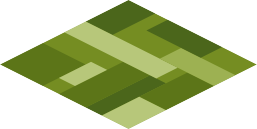
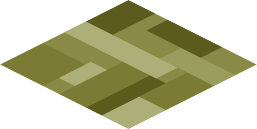
feat(town): cosy isometric town home (final)
Large isometric field with viewport culling so it stays fast; a crossroads
layout with buildings in the quadrants; olive dry-grass fields; green trees
only; one red car and pedestrians that follow the road arms; five animal
types roaming the field quadrants (lots at night); slow drifting clouds, hazy
at night; and a slow, tired, often-sleeping ピコ after dark. ピコ gains a
"tired" mood.

Changed region(s): [[0.0, 0.2481, 0.8405, 0.8682], [0.4358, 0.093, 0.716, 0.4651], [0.7782, 0.3721, 0.9961, 0.5891]]

diff --git a/src/components/town/TownMap.tsx b/src/components/town/TownMap.tsx
@@ -2,7 +2,7 @@
 
 import { useEffect, useRef, useState } from "react";
 import { useRouter } from "next/navigation";
-import { PicoAvatar } from "@/components/journey/Pico";
+import { PicoAvatar, type PicoMood } from "@/components/journey/Pico";
 
 type Business = { id: string; idea: string; current_stage: string; status: string } | null;
 
@@ -11,16 +11,19 @@ const SRC_TW = 257;
 const TW = 132;
 const TH = (TW * 129) / 257;
 const S = TW / SRC_TW;
-const N = 8; // big tiled field; edges hidden by clouds
+const N = 21;
+const MID = Math.floor(N / 2);
+const TOPF = 0.44;
 const ORIGIN_X = (N - 1) * (TW / 2);
-const ORIGIN_Y = 200;
+const ORIGIN_Y = 230;
 const DW = (N - 1 + N - 1) * (TW / 2) + TW;
 const DH = ORIGIN_Y + (N - 1 + N - 1) * (TH / 2) + TH + 60;
 
 const tilePos = (c: number, r: number) => ({ x: ORIGIN_X + (c - r) * (TW / 2), y: ORIGIN_Y + (c + r) * (TH / 2) });
 const cellCenter = (c: number, r: number) => { const p = tilePos(c, r); return { x: p.x + TW / 2, y: p.y + TH / 2 }; };
 const depth = (c: number, r: number) => (c + r) * 2;
-const isRoad = (c: number, r: number) => c === 3 || r === 3;
+// a crossroads through the centre: two roads meeting by the buildings, running out to the corners
+const isRoad = (c: number, r: number) => c === MID || r === MID;
 
 /* ---- sprites ---- */
 const SP = {
@@ -28,85 +31,131 @@ const SP = {
   market: { src: "/town/market.png", w: 261, h: 203 },
   library: { src: "/town/library.png", w: 425, h: 345 },
   shop: { src: "/town/shop.png", w: 225, h: 193 },
-  houseA: { src: "/town/house-a.png", w: 225, h: 193 },
-  houseB: { src: "/town/house-b.png", w: 253, h: 174 },
-  houseC: { src: "/town/house-c.png", w: 241, h: 185 },
-  houseD: { src: "/town/house-d.png", w: 241, h: 185 },
   tree1: { src: "/town/tree-01.png", w: 139, h: 210 },
   tree2: { src: "/town/tree-02.png", w: 133, h: 193 },
   tree3: { src: "/town/tree-03.png", w: 142, h: 209 },
   tree4: { src: "/town/tree-04.png", w: 138, h: 209 },
   fpink: { src: "/town/flowers-pink.png", w: 24, h: 13 },
+  fyellow: { src: "/town/flowers-yellow.png", w: 24, h: 13 },
 } as const;
 type SKey = keyof typeof SP;
 
 type Civic = { col: number; row: number; key: SKey; label: string; href: string; scaleMul?: number };
 const CIVIC: Civic[] = [
-  { col: 2, row: 2, key: "cottage", label: "ピコのいえ", href: "/pico" },
-  { col: 5, row: 2, key: "market", label: "アイデアいちば", href: "/explore" },
-  { col: 2, row: 5, key: "library", label: "がくしゅうかん", href: "/learn", scaleMul: 0.7 },
+  { col: MID - 1, row: MID - 1, key: "cottage", label: "ピコのいえ", href: "/pico" },
+  { col: MID + 1, row: MID - 1, key: "market", label: "アイデアいちば", href: "/explore" },
+  { col: MID - 1, row: MID + 1, key: "library", label: "がっこう", href: "/learn", scaleMul: 0.7 },
 ];
-const CIVIC_SET = new Set(CIVIC.map((b) => `${b.col},${b.row}`).concat(["5,5"]));
+const SHOP_CELL: [number, number] = [MID + 1, MID + 1];
+const CIVIC_SET = new Set(CIVIC.map((b) => `${b.col},${b.row}`).concat([`${SHOP_CELL[0]},${SHOP_CELL[1]}`]));
 
-const HOUSES: SKey[] = ["houseA", "houseB", "houseC", "houseD"];
-const TREES: SKey[] = ["tree1", "tree2", "tree3", "tree4"];
-
-// deterministic filler: houses + trees across all non-civic, non-road cells
+const TREES: SKey[] = ["tree1", "tree2", "tree3"]; // green trees only (no autumn orange)
+// sparse greenery so the fields stay open
 type Filler = { c: number; r: number; sp: SKey };
 const FILLER: Filler[] = [];
 for (let r = 0; r < N; r++) for (let c = 0; c < N; c++) {
   if (CIVIC_SET.has(`${c},${r}`) || isRoad(c, r)) continue;
   const m = (c * 3 + r * 5) % 7;
-  if (m === 0) FILLER.push({ c, r, sp: HOUSES[(c + r) % 4] });
-  else if (m === 2 || m === 5) FILLER.push({ c, r, sp: TREES[(c * 2 + r) % 4] });
-  else if (m === 4) FILLER.push({ c, r, sp: "fpink" });
+  if (m === 0 || m === 5) FILLER.push({ c, r, sp: TREES[(c * 2 + r) % 3] });
+  else if (m === 3) FILLER.push({ c, r, sp: (c + r) % 2 ? "fpink" : "fyellow" });
 }
 
-// wander/road cells
+const inWin = (c: number, r: number) => c >= 0 && c < N && r >= 0 && r < N && Math.abs(c - MID) <= 5 && Math.abs(r - MID) <= 5;
 const ROAD_CELLS: [number, number][] = [];
-for (let i = 0; i < N; i++) { ROAD_CELLS.push([3, i]); if (i !== 3) ROAD_CELLS.push([i, 3]); }
+const GRASS_CELLS: [number, number][] = [];
+for (let r = MID - 5; r <= MID + 5; r++) for (let c = MID - 5; c <= MID + 5; c++) {
+  if (!inWin(c, r)) continue;
+  if (isRoad(c, r)) ROAD_CELLS.push([c, r]);
+  else if (!CIVIC_SET.has(`${c},${r}`)) GRASS_CELLS.push([c, r]);
+}
+const PICO_CELLS = [...ROAD_CELLS, ...GRASS_CELLS];
+// the cross splits the field into 4 quadrants; an animal stays in one so it never crosses a road
+const GRASS_Q: [number, number][][] = [
+  GRASS_CELLS.filter(([c, r]) => c < MID && r < MID),
+  GRASS_CELLS.filter(([c, r]) => c > MID && r < MID),
+  GRASS_CELLS.filter(([c, r]) => c < MID && r > MID),
+  GRASS_CELLS.filter(([c, r]) => c > MID && r > MID),
+];
 
 const pick = <T,>(a: T[]) => a[Math.floor(Math.random() * a.length)];
+
+/* ---- cute critters ---- */
+function Critter({ type }: { type: string }) {
+  switch (type) {
+    case "dog":
+      return (<svg width="36" height="26" viewBox="0 0 42 30" fill="none"><path d="M4 16 q-3 -6 1 -9" stroke="#9B6B43" strokeWidth="3" fill="none" strokeLinecap="round" /><ellipse cx="18" cy="18" rx="13" ry="7.5" fill="#A9774B" /><rect x="11" y="22" width="3" height="6.5" rx="1.5" fill="#8B5E37" /><rect x="23" y="22" width="3" height="6.5" rx="1.5" fill="#8B5E37" /><circle cx="31" cy="14" r="6.5" fill="#A9774B" /><path d="M28 9 q-3 1 -2 7 q3 -1 4 -5z" fill="#8B5E37" /><circle cx="33" cy="14" r="1" fill="#3A2A1A" /><circle cx="36" cy="15.5" r="1.2" fill="#3A2A1A" /></svg>);
+    case "rabbit":
+      return (<svg width="28" height="30" viewBox="0 0 30 34" fill="none"><ellipse cx="14" cy="24" rx="9" ry="6.5" fill="#F2F2F2" /><circle cx="20" cy="17" r="5.5" fill="#F2F2F2" /><ellipse cx="18" cy="7" rx="2" ry="6" fill="#F2F2F2" /><ellipse cx="22.5" cy="7" rx="2" ry="6" fill="#F2F2F2" /><ellipse cx="18" cy="7" rx="0.9" ry="4" fill="#FFC9D6" /><ellipse cx="22.5" cy="7" rx="0.9" ry="4" fill="#FFC9D6" /><circle cx="22" cy="17" r="1" fill="#3A2A1A" /><circle cx="6" cy="22" r="2.5" fill="#fff" /></svg>);
+    case "bird":
+      return (<svg width="24" height="22" viewBox="0 0 26 24" fill="none"><ellipse cx="13" cy="13" rx="8" ry="6.5" fill="#C98A5B" /><circle cx="18" cy="8" r="4" fill="#C98A5B" /><path d="M21 7 l4 1 -4 1z" fill="#FFB347" /><circle cx="19" cy="7.5" r="0.8" fill="#3A2A1A" /><path d="M3 13 q-3 1 -4 4" stroke="#C98A5B" strokeWidth="2.5" fill="none" strokeLinecap="round" /><rect x="11" y="18" width="1.6" height="4" fill="#FFB347" /><rect x="15" y="18" width="1.6" height="4" fill="#FFB347" /></svg>);
+    case "sheep":
+      return (<svg width="34" height="26" viewBox="0 0 38 30" fill="none"><circle cx="12" cy="16" r="7" fill="#F4F4F4" /><circle cx="19" cy="13" r="8" fill="#F4F4F4" /><circle cx="25" cy="16" r="7" fill="#F4F4F4" /><circle cx="18" cy="20" r="7" fill="#F4F4F4" /><circle cx="30" cy="15" r="4.5" fill="#4A4A4A" /><circle cx="31.5" cy="14.5" r="0.9" fill="#fff" /><rect x="14" y="24" width="2" height="5" fill="#4A4A4A" /><rect x="22" y="24" width="2" height="5" fill="#4A4A4A" /></svg>);
+    default: // cat
+      return (<svg width="34" height="24" viewBox="0 0 40 28" fill="none"><path d="M5 16 q-6 -3 -5 -11" stroke="#E8A85C" strokeWidth="3" fill="none" strokeLinecap="round" /><ellipse cx="17" cy="17" rx="12" ry="7" fill="#E8A85C" /><rect x="11" y="21" width="2.6" height="6" rx="1.3" fill="#D8954A" /><rect x="21" y="21" width="2.6" height="6" rx="1.3" fill="#D8954A" /><circle cx="29" cy="12" r="6" fill="#E8A85C" /><path d="M24 6.5 l1.4 4.2 -4 -0.6z" fill="#E8A85C" /><path d="M31 6.5 l2 3.6 -3.6 0.6z" fill="#E8A85C" /><circle cx="30.5" cy="12" r="1" fill="#3A2A1A" /><circle cx="33.6" cy="13" r="0.8" fill="#FF9E9E" /></svg>);
+  }
+}
+
+const DAY_ANIMALS = ["cat", "dog", "rabbit", "bird"];
+const NIGHT_ANIMALS = ["cat", "dog", "rabbit", "bird", "sheep", "cat", "rabbit", "dog", "bird", "sheep"];
 
 export function TownMap({ business }: { business: Business }) {
   const router = useRouter();
   const wrapRef = useRef<HTMLDivElement>(null);
   const moversRef = useRef<HTMLDivElement[]>([]);
-  const [scale, setScale] = useState(0.8);
+  const restRef = useRef(false);
+  const [size, setSize] = useState({ w: 545, h: 800 });
   const [night, setNight] = useState<boolean | null>(null);
   const [tapped, setTapped] = useState<string | null>(null);
   const [picoTap, setPicoTap] = useState(false);
+  const [picoResting, setPicoResting] = useState(false);
 
   useEffect(() => { const h = new Date().getHours(); setNight(h >= 19 || h < 6); }, []);
-
   useEffect(() => {
     const el = wrapRef.current;
     if (!el) return;
-    // cover the screen, then clouds hide the overflowing edges
-    const fit = () => setScale(Math.max(el.clientWidth / DW, el.clientHeight / DH) * 1.04);
+    const fit = () => setSize({ w: el.clientWidth, h: el.clientHeight });
     fit();
-    const ro = new ResizeObserver(fit);
-    ro.observe(el);
+    const ro = new ResizeObserver(fit); ro.observe(el);
     return () => ro.disconnect();
   }, []);
 
+  const scale = Math.min(1.4, Math.max(0.5, size.w / 560));
   const isNight = !!night;
-  const cloud = isNight ? "rgba(214,221,240,0.96)" : "rgba(255,255,255,0.96)";
-  const peopleCount = isNight ? 1 : 3;
-  const carCount = isNight ? 0 : 1;
 
-  const movers: { kind: "pico" | "person" | "car"; src?: string; w: number; h: number; speed: number; cells: [number, number][] }[] = [
-    { kind: "pico", w: 44, h: 44, speed: isNight ? 26 : 42, cells: ROAD_CELLS },
-  ];
+  const visible = (p: { x: number; y: number }, h = TH) => {
+    const sx = size.w / 2 + (p.x - DW / 2) * scale;
+    const sy = size.h * TOPF + (p.y - DH / 2) * scale;
+    const M = 60, MT = 260;
+    return sx + (TW + 2) * scale > -M && sx < size.w + M && sy + (TH + 2) * scale > -MT && sy - (h - TH) * scale < size.h + M;
+  };
+
+  type Mover = { kind: "pico" | "person" | "car" | "animal"; src?: string; animal?: string; w: number; h: number; speed: number; cells: [number, number][] };
+  const movers: Mover[] = [{ kind: "pico", w: 44, h: 44, speed: isNight ? 16 : 42, cells: PICO_CELLS }];
+  const peopleCount = isNight ? 1 : 3;
   for (let i = 0; i < peopleCount; i++) movers.push({ kind: "person", src: `/town/person-${i + 1}.png`, w: 25 * S * 1.5, h: 40 * S * 1.5, speed: 32 + i * 6, cells: ROAD_CELLS });
-  for (let i = 0; i < carCount; i++) movers.push({ kind: "car", src: "/town/car-1.png", w: 112 * S, h: 74 * S, speed: 72, cells: ROAD_CELLS });
+  if (!isNight) movers.push({ kind: "car", src: "/town/car-red.png", w: 112 * S, h: 74 * S, speed: 58, cells: ROAD_CELLS });
+  (isNight ? NIGHT_ANIMALS : DAY_ANIMALS).forEach((a, i) => movers.push({ kind: "animal", animal: a, w: 34, h: 30, speed: 16 + (i % 4) * 5, cells: GRASS_Q[i % 4].length ? GRASS_Q[i % 4] : GRASS_CELLS }));
 
   useEffect(() => {
     moversRef.current.length = movers.length;
+    const nextTarget = (s: { x: number; y: number; kind: string; cells: [number, number][]; cell: [number, number] }) => {
+      if (s.kind === "person" || s.kind === "car") {
+        // stay on the road: only move to a cell on the same road arm (collinear), so the straight path follows the street
+        const [cc, cr] = s.cell;
+        const cands = ROAD_CELLS.filter(([c2, r2]) => (cr === MID && r2 === MID && c2 !== cc) || (cc === MID && c2 === MID && r2 !== cr));
+        const nc = cands.length ? pick(cands) : pick(ROAD_CELLS);
+        s.cell = nc; return cellCenter(...nc);
+      }
+      if (s.kind === "pico" && isNight) {
+        const near = s.cells.filter((c) => { const ct = cellCenter(...c); const d = Math.hypot(ct.x - s.x, ct.y - s.y); return d > 6 && d < TW * 2; });
+        const nc = near.length ? pick(near) : pick(s.cells);
+        s.cell = nc; return cellCenter(...nc);
+      }
+      const nc = pick(s.cells); s.cell = nc; return cellCenter(...nc);
+    };
     const states = movers.map((m) => {
-      const s = cellCenter(...pick(m.cells));
-      const t = cellCenter(...pick(m.cells));
-      return { x: s.x, y: s.y, tx: t.x, ty: t.y, pause: 0, face: 1, cells: m.cells, speed: m.speed, kind: m.kind };
+      const sc = pick(m.cells); const s = cellCenter(...sc);
+      return { x: s.x, y: s.y, tx: s.x, ty: s.y, cell: sc, pause: 0, face: 1, cells: m.cells, speed: m.speed, kind: m.kind };
     });
     let raf = 0; let last = performance.now();
     const tick = (t: number) => {
@@ -115,12 +164,14 @@ export function TownMap({ business }: { business: Business }) {
         const s = states[i];
         if (t >= s.pause) {
           const dx = s.tx - s.x, dy = s.ty - s.y; const d = Math.hypot(dx, dy) || 1; const step = (s.speed * dt) / 1000;
-          if (d <= step) { s.x = s.tx; s.y = s.ty; s.pause = t + 500 + Math.random() * 1800; const nt = cellCenter(...pick(s.cells)); s.face = nt.x < s.x ? -1 : 1; s.tx = nt.x; s.ty = nt.y; }
+          if (d <= step) { s.x = s.tx; s.y = s.ty; s.pause = t + (s.kind === "pico" && isNight ? 1800 + Math.random() * 3400 : 300 + Math.random() * 2200); const nt = nextTarget(s); s.face = nt.x < s.x ? -1 : 1; s.tx = nt.x; s.ty = nt.y; }
           else { s.x += (dx / d) * step; s.y += (dy / d) * step; s.face = dx < 0 ? -1 : 1; }
         }
         const el = moversRef.current[i];
         if (el) el.style.transform = s.kind === "pico" ? `translate(${s.x}px,${s.y}px)` : `translate(${s.x}px,${s.y}px) scaleX(${s.face})`;
       }
+      const resting = t < states[0].pause;
+      if (resting !== restRef.current) { restRef.current = resting; setPicoResting(resting); }
       raf = requestAnimationFrame(tick);
     };
     raf = requestAnimationFrame(tick);
@@ -131,29 +182,32 @@ export function TownMap({ business }: { business: Business }) {
   const go = (href: string) => { if (tapped) return; setTapped(href); window.setTimeout(() => router.push(href), 360); };
   const tapPico = () => { if (picoTap) return; setPicoTap(true); window.setTimeout(() => router.push("/pico"), 720); };
 
-  const buildings: Civic[] = business ? [...CIVIC, { col: 5, row: 5, key: "shop", label: "わたしのおみせ", href: "/business" }] : CIVIC;
+  const buildings: Civic[] = business ? [...CIVIC, { col: SHOP_CELL[0], row: SHOP_CELL[1], key: "shop", label: "かいしゃ", href: "/business" }] : CIVIC;
+  const picoMood: PicoMood = picoTap ? "happy" : isNight ? (picoResting ? "sleep" : "tired") : "happy";
 
   const tiles = [];
   for (let r = 0; r < N; r++) for (let c = 0; c < N; c++) {
     const p = tilePos(c, r);
+    if (!visible(p)) continue;
     tiles.push(
       // eslint-disable-next-line @next/next/no-img-element
       <img key={`g${c}-${r}`} src={isRoad(c, r) ? "/town/road.png" : "/town/ground.png"} alt="" aria-hidden draggable={false} className="pointer-events-none absolute select-none" style={{ left: p.x, top: p.y, width: TW + 1, height: TH + 1, zIndex: depth(c, r) }} />
     );
   }
 
+  const cloudColor = isNight ? "rgba(196,206,224,0.30)" : "rgba(255,255,255,0.55)";
   const label = (text: string) => (
     <span className="absolute bottom-full left-1/2 mb-1 -translate-x-1/2 whitespace-nowrap rounded-full bg-white/90 px-3 py-1 text-[15px] font-extrabold text-[#4a3a28] shadow">{text}</span>
   );
 
   return (
-    <div ref={wrapRef} className="relative h-full w-full overflow-hidden" style={{ background: isNight ? "linear-gradient(180deg,#26314F 0%,#3E4A78 30%,#5C6E90 60%,#6E8E5A 100%)" : "linear-gradient(180deg,#BFE0F5 0%,#D8EAF6 28%,#E8F2E0 55%,#CDE9B8 100%)", transition: "background 1.2s ease" }}>
-      {/* scaled isometric town (covers the screen) */}
-      <div className="absolute left-1/2 top-1/2" style={{ width: DW, height: DH, transform: `translate(-50%,-50%) scale(${scale})`, transformOrigin: "center", zIndex: 20, filter: "saturate(0.97) brightness(1.02)" }}>
+    <div ref={wrapRef} className="relative h-full w-full overflow-hidden" style={{ background: isNight ? "linear-gradient(180deg,#33372A 0%,#3B4030 45%,#33372A 100%)" : "linear-gradient(180deg,#CBCF98 0%,#BCC488 45%,#AEB778 100%)", transition: "background 1.2s ease" }}>
+      <div className="absolute left-1/2" style={{ top: `${TOPF * 100}%`, width: DW, height: DH, transform: `translate(-50%,-50%) scale(${scale})`, transformOrigin: "center", zIndex: 20, filter: isNight ? "brightness(0.66) saturate(0.92)" : "saturate(0.98) brightness(1.02)", transition: "filter 1.2s ease" }}>
         {tiles}
 
         {FILLER.map(({ c, r, sp: key }, k) => {
-          const sp = SP[key]; const w = sp.w * S; const h = sp.h * S; const p = tilePos(c, r);
+          const p = tilePos(c, r); const sp = SP[key]; const w = sp.w * S; const h = sp.h * S;
+          if (!visible(p, h)) return null;
           return (
             // eslint-disable-next-line @next/next/no-img-element
             <img key={`f${k}`} src={sp.src} alt="" aria-hidden draggable={false} className={`pointer-events-none absolute select-none${sp.h > 150 ? " town-sway" : ""}`} style={{ left: p.x + (TW - w) / 2, top: p.y + TH - h, width: w, height: h, zIndex: depth(c, r) + 1, transformOrigin: "bottom center", filter: "drop-shadow(0 5px 5px rgba(60,42,26,0.16))" }} />
@@ -167,16 +221,16 @@ export function TownMap({ business }: { business: Business }) {
               {label(b.label)}
               {/* eslint-disable-next-line @next/next/no-img-element */}
               <img src={sp.src} alt="" draggable={false} className="select-none transition-transform duration-200 group-hover:-translate-y-1" style={{ width: w, height: h, filter: "drop-shadow(0 8px 7px rgba(60,42,26,0.24))" }} />
-              {isNight && <span className="pointer-events-none absolute rounded-full" style={{ left: "50%", top: "55%", width: w * 0.5, height: h * 0.4, transform: "translate(-50%,-50%)", background: "radial-gradient(circle,rgba(255,220,140,0.55),transparent 70%)" }} />}
+              {isNight && <span className="pointer-events-none absolute rounded-full" style={{ left: "50%", top: "55%", width: w * 0.5, height: h * 0.4, transform: "translate(-50%,-50%)", background: "radial-gradient(circle,rgba(255,220,140,0.75),transparent 70%)" }} />}
               {active && ["-10,-6", "10,-4", "0,-12", "-6,4"].map((s, j) => { const [x, y] = s.split(","); return <span key={j} className="town-spark pointer-events-none absolute left-1/2 top-1/3 text-[12px]" style={{ animationDelay: `${j * 40}ms`, "--tx": `${x}px`, "--ty": `${y}px` } as React.CSSProperties}>✦</span>; })}
             </button>
           );
         })}
 
         {!business && (() => {
-          const p = tilePos(5, 5); const active = tapped === "/explore";
+          const p = tilePos(SHOP_CELL[0], SHOP_CELL[1]); const active = tapped === "/explore";
           return (
-            <button type="button" onClick={() => go("/explore")} aria-label="あきち" className={`town-pop absolute flex flex-col items-center ${active ? "town-bounce" : ""}`} style={{ left: p.x + TW * 0.18, top: p.y + TH * 0.06, width: TW * 0.64, zIndex: depth(5, 5) + 3, transformOrigin: "bottom center" }}>
+            <button type="button" onClick={() => go("/explore")} aria-label="あきち" className={`town-pop absolute flex flex-col items-center ${active ? "town-bounce" : ""}`} style={{ left: p.x + TW * 0.18, top: p.y + TH * 0.06, width: TW * 0.64, zIndex: depth(SHOP_CELL[0], SHOP_CELL[1]) + 3, transformOrigin: "bottom center" }}>
               {label("あきち")}
               <span className="flex w-full items-center justify-center rounded-lg border-2 border-dashed border-[#8a7a5a]/70 bg-white/20" style={{ height: TH * 0.7 }}><span className="material-symbols-outlined text-[26px] text-[#6a5a3a]">add</span></span>
             </button>
@@ -184,15 +238,17 @@ export function TownMap({ business }: { business: Business }) {
         })()}
 
         {movers.map((m, i) => (
-          <div key={`m${i}`} ref={(el) => { if (el) moversRef.current[i] = el; }} className="absolute left-0 top-0" style={{ zIndex: 9000 + i, willChange: "transform" }}>
+          <div key={`m${i}`} ref={(el) => { if (el) moversRef.current[i] = el; }} className="absolute left-0 top-0" style={{ zIndex: m.kind === "animal" ? 8000 + i : 9000 + i, willChange: "transform" }}>
             {m.kind === "pico" ? (
               <div className={`-translate-x-1/2 -translate-y-[70%] ${picoTap ? "town-hop" : ""}`}>
                 <button type="button" onClick={tapPico} aria-label="ピコとはなす" className="flex flex-col items-center active:scale-90" style={{ filter: "drop-shadow(0 5px 4px rgba(60,42,26,0.22))" }}>
                   {picoTap && <span className="town-bubble absolute -top-7 whitespace-nowrap rounded-2xl bg-white px-2 py-1 text-[12px] font-bold text-[#5a4a38] shadow">やあ！👋</span>}
                   <span className="mb-0.5 inline-block rounded-full bg-[#3A2A1A]/85 px-2 py-0.5 text-[11px] font-extrabold leading-none text-white shadow-sm">ピコ</span>
-                  <PicoAvatar size={44} mood="happy" />
+                  <PicoAvatar size={44} mood={picoMood} />
                 </button>
               </div>
+            ) : m.kind === "animal" ? (
+              <div className="town-bob -translate-x-1/2 -translate-y-full" style={{ filter: "drop-shadow(0 2px 2px rgba(60,42,26,0.22))" }}><Critter type={m.animal!} /></div>
             ) : (
               // eslint-disable-next-line @next/next/no-img-element
               <img src={m.src} alt="" aria-hidden draggable={false} className="town-bob -translate-x-1/2 -translate-y-full select-none" style={{ width: m.w, height: m.h, filter: "drop-shadow(0 2px 2px rgba(60,42,26,0.2))" }} />
@@ -201,22 +257,17 @@ export function TownMap({ business }: { business: Business }) {
         ))}
       </div>
 
-      {/* ---- clouds feathering all 4 edges ---- */}
-      <div className="pointer-events-none absolute inset-x-0 top-0 h-[26%]" style={{ background: `linear-gradient(to bottom, ${cloud}, transparent)`, zIndex: 50 }} aria-hidden />
-      <div className="pointer-events-none absolute inset-x-0 bottom-0 h-[24%]" style={{ background: `linear-gradient(to top, ${cloud}, transparent)`, zIndex: 50 }} aria-hidden />
-      <div className="pointer-events-none absolute inset-y-0 left-0 w-[18%]" style={{ background: `linear-gradient(to right, ${cloud}, transparent)`, zIndex: 50 }} aria-hidden />
-      <div className="pointer-events-none absolute inset-y-0 right-0 w-[18%]" style={{ background: `linear-gradient(to left, ${cloud}, transparent)`, zIndex: 50 }} aria-hidden />
-      {/* puffy cloud blobs along the edges */}
-      {["6,5,90,40", "30,3,120,46", "60,4,110,42", "84,6,92,40", "4,80,96,40", "34,90,120,44", "64,88,110,42", "88,82,90,40", "2,40,70,60", "92,46,70,60"].map((s, k) => {
-        const [l, t, w, h] = s.split(",").map(Number);
-        return <div key={k} className="town-cloud-drift pointer-events-none absolute rounded-full" style={{ left: `${l}%`, top: `${t}%`, width: w, height: h, background: cloud, filter: "blur(6px)", zIndex: 51, animationDelay: `${k * 0.7}s` }} aria-hidden />;
-      })}
+      {/* slow drifting clouds (hazy at night) */}
+      {[{ a: "town-drift1", top: "12%", w: 150, dur: 58, delay: 0 }, { a: "town-drift2", top: "30%", w: 110, dur: 74, delay: 26 }, { a: "town-drift1", top: "6%", w: 130, dur: 92, delay: 50 }].map((cl, k) => (
+        <div key={k} className={`${cl.a} pointer-events-none absolute`} style={{ top: cl.top, left: 0, zIndex: 45, animationDuration: `${cl.dur}s`, animationDelay: `${cl.delay}s`, filter: "blur(7px)" }} aria-hidden>
+          <div className="relative" style={{ width: cl.w, height: cl.w * 0.42 }}>
+            <span className="absolute rounded-full" style={{ left: 0, top: "30%", width: cl.w * 0.55, height: cl.w * 0.3, background: cloudColor }} />
+            <span className="absolute rounded-full" style={{ left: cl.w * 0.28, top: 0, width: cl.w * 0.5, height: cl.w * 0.42, background: cloudColor }} />
+            <span className="absolute rounded-full" style={{ left: cl.w * 0.5, top: "26%", width: cl.w * 0.5, height: cl.w * 0.3, background: cloudColor }} />
+          </div>
+        </div>
+      ))}
 
-      {/* sun / moon, above clouds */}
-      <div className="town-celestial pointer-events-none absolute right-8 top-7 h-14 w-14 rounded-full" style={{ background: isNight ? "radial-gradient(circle,#FFFDF0 0%,#F4E8B0 58%,transparent 70%)" : "radial-gradient(circle,#FFF1C4 0%,#FFD98C 55%,transparent 72%)", zIndex: 55 }} aria-hidden />
-      {isNight && ["16,8,0s", "40,6,.6s", "66,10,1.1s", "86,7,.3s"].map((s, k) => { const [l, t, d] = s.split(","); return <span key={k} className="town-twinkle pointer-events-none absolute text-[10px]" style={{ left: `${l}%`, top: `${t}%`, zIndex: 55, animationDelay: d }} aria-hidden>✦</span>; })}
-
-      {/* title + day/night toggle */}
       <p className="pointer-events-none absolute left-1/2 top-3 z-[60] -translate-x-1/2 rounded-full bg-white/80 px-3 py-0.5 text-xs font-extrabold tracking-wide text-[#6a5638]">エグチタウン {isNight ? "🌙" : "☀️"}</p>
       <button type="button" onClick={() => setNight((n) => !n)} className="absolute left-3 top-3 z-[60] flex h-8 w-8 items-center justify-center rounded-full bg-white/85 text-[#6a5638] shadow-sm active:scale-90" aria-label={isNight ? "昼にする" : "夜にする"}>
         <span className="material-symbols-outlined text-[18px]">{isNight ? "light_mode" : "dark_mode"}</span>
@@ -230,9 +281,8 @@ export function TownMap({ business }: { business: Business }) {
         @keyframes town-hop { 0%,100%{transform:translateY(0)} 30%{transform:translateY(-12px)} 60%{transform:translateY(0)} }
         @keyframes town-bubble { 0%{opacity:0;transform:translateY(4px) scale(.8)} 100%{opacity:1;transform:translateY(0) scale(1)} }
         @keyframes town-sway { 0%,100%{transform:rotate(-2deg)} 50%{transform:rotate(2deg)} }
-        @keyframes town-cloud-drift { 0%,100%{transform:translateX(0)} 50%{transform:translateX(10px)} }
-        @keyframes town-twinkle { 0%,100%{opacity:.35} 50%{opacity:1} }
-        @keyframes town-celestial { 0%,100%{transform:scale(1)} 50%{transform:scale(1.06)} }
+        @keyframes town-drift1 { 0%{transform:translateX(-44vw)} 42%{transform:translateX(120vw)} 100%{transform:translateX(120vw)} }
+        @keyframes town-drift2 { 0%{transform:translateX(120vw)} 46%{transform:translateX(-44vw)} 100%{transform:translateX(-44vw)} }
         .town-bob{animation:town-bob .5s ease-in-out infinite}
         .town-pop{animation:town-pop .5s ease both}
         .town-bounce{animation:town-bounce .36s ease}
@@ -240,10 +290,9 @@ export function TownMap({ business }: { business: Business }) {
         .town-hop{animation:town-hop .7s ease}
         .town-bubble{animation:town-bubble .2s ease both}
         .town-sway{animation:town-sway 4.5s ease-in-out infinite}
-        .town-cloud-drift{animation:town-cloud-drift 9s ease-in-out infinite}
-        .town-twinkle{animation:town-twinkle 2.4s ease-in-out infinite;color:#FFF6D8}
-        .town-celestial{animation:town-celestial 6s ease-in-out infinite}
-        @media (prefers-reduced-motion: reduce){ .town-bob,.town-sway,.town-cloud-drift,.town-twinkle,.town-celestial{animation:none} .town-pop{animation:none;opacity:1} }
+        .town-drift1{animation:town-drift1 linear infinite}
+        .town-drift2{animation:town-drift2 linear infinite}
+        @media (prefers-reduced-motion: reduce){ .town-bob,.town-sway,.town-drift1,.town-drift2{animation:none} .town-pop{animation:none;opacity:1} }
       `}</style>
     </div>
   );

diff --git a/src/components/journey/Pico.tsx b/src/components/journey/Pico.tsx
@@ -10,6 +10,7 @@ export type PicoMood =
   | "think"
   | "surprised"
   | "sleep"
+  | "tired"
   | "celebrate";
 
 export const PICO_MOODS: PicoMood[] = [
@@ -18,6 +19,7 @@ export const PICO_MOODS: PicoMood[] = [
   "think",
   "surprised",
   "sleep",
+  "tired",
   "celebrate",
 ];
 
@@ -106,6 +108,18 @@ function PicoFace({ mood }: { mood: PicoMood }) {
           <path d="M35 33q4 5 8 0" stroke="#3A2A1A" strokeWidth="2.2" strokeLinecap="round" fill="none" />
           {/* tiny soft mouth */}
           <path d="M30 45q2 1.6 4 0" stroke="#3A2A1A" strokeWidth="1.8" strokeLinecap="round" fill="none" />
+        </>
+      );
+    case "tired":
+      return (
+        <>
+          {/* heavy, droopy half-closed eyes */}
+          <path d="M20 34q5 3 9 0" stroke="#3A2A1A" strokeWidth="2.2" strokeLinecap="round" fill="none" />
+          <path d="M35 34q5 3 9 0" stroke="#3A2A1A" strokeWidth="2.2" strokeLinecap="round" fill="none" />
+          <circle cx="24.5" cy="35.6" r="1.3" fill="#3A2A1A" />
+          <circle cx="39.5" cy="35.6" r="1.3" fill="#3A2A1A" />
+          {/* small weary mouth */}
+          <path d="M29 45q3 1.4 6 0" stroke="#3A2A1A" strokeWidth="1.8" strokeLinecap="round" fill="none" />
         </>
       );
     case "happy":